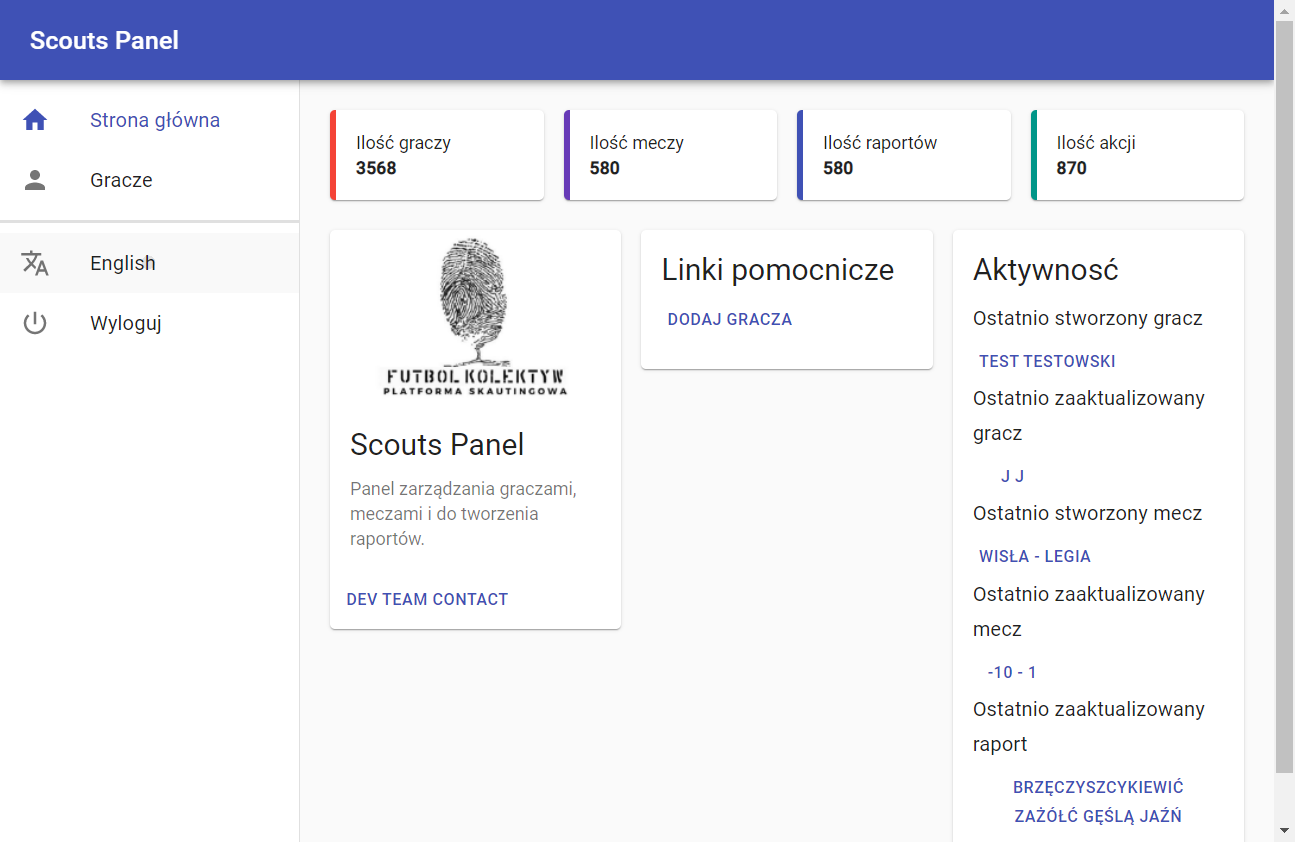
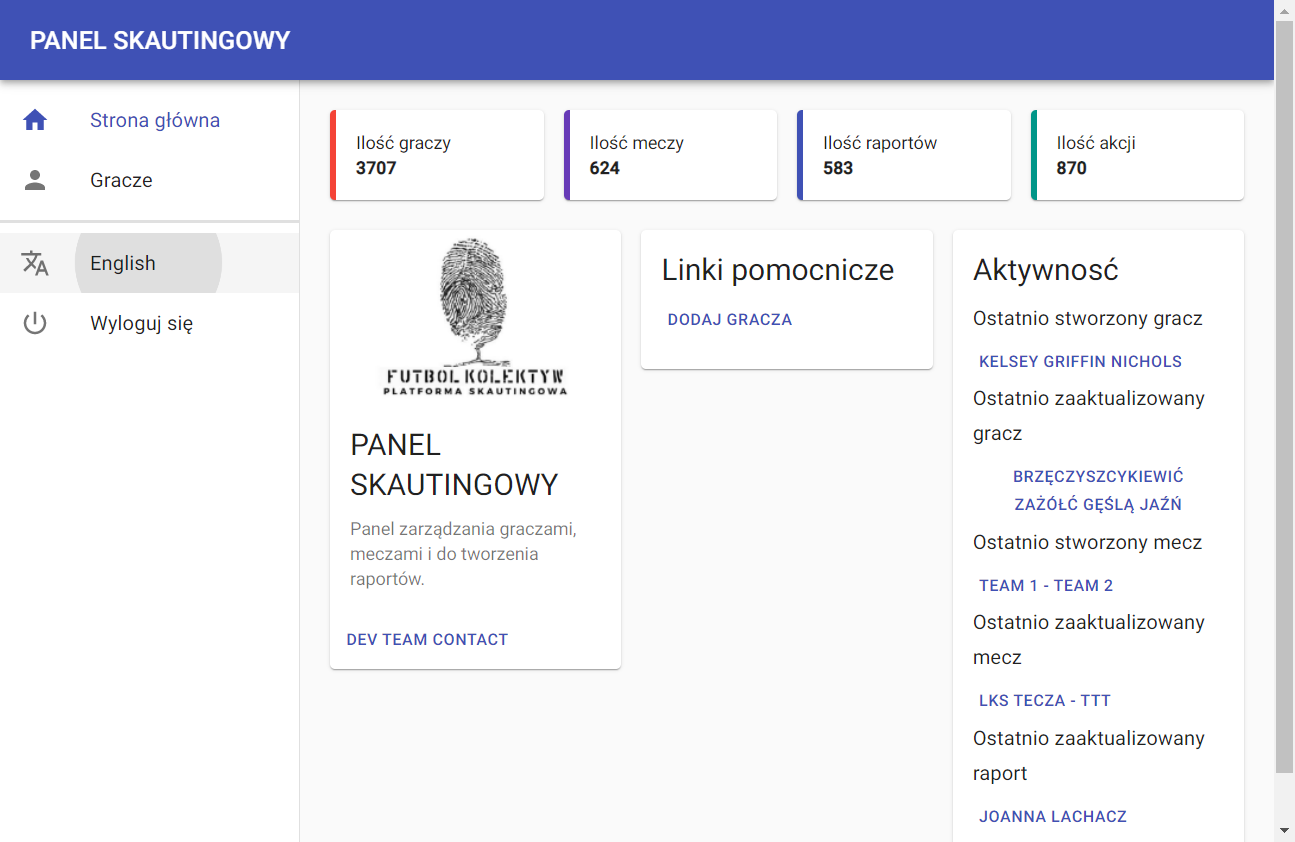
task 6

diff --git a/log.html b/log.html
@@ -1803,25 +1803,25 @@ function stopPropagation(event) {
 window.output = {};
 </script>
 <script type="text/javascript">
-window.output["suite"] = [1,2,3,4,[],[1,0,43289],[],[[5,0,0,[],[1,288,9253],[[0,6,0,0,0,0,0,0,[1,288,2305],[[0,7,8,0,9,10,0,0,[1,288,2297],[[288,2,11]]],[0,12,8,0,13,14,0,0,[1,2585,8],[[2593,2,15]]]]],[0,16,0,0,0,0,0,0,[1,2593,208],[[0,17,8,0,18,19,0,0,[1,2593,208],[[2593,2,20]]]]],[0,21,0,0,0,0,0,0,[1,2801,162],[[0,17,8,0,18,22,0,0,[1,2801,162],[[2801,2,23]]]]],[0,24,0,0,0,0,0,0,[1,2963,77],[[0,25,8,0,26,27,0,0,[1,2971,69],[[2971,2,28]]]]],[0,29,0,0,0,0,0,0,[1,3041,4347],[[0,30,8,0,31,32,0,0,[1,3042,4121],[]],[0,12,8,0,13,33,0,0,[1,7163,12],[[7175,2,34]]],[0,35,8,0,36,37,0,0,[1,7175,212],[[7387,2,38]]]]],[2,39,8,0,40,0,0,0,[1,7388,2153],[]]]],[41,0,0,[],[1,9541,8728],[[0,6,0,0,0,0,0,0,[1,9541,1990],[[0,7,8,0,9,10,0,0,[1,9541,1982],[[9541,2,11]]],[0,12,8,0,13,14,0,0,[1,11523,8],[[11531,2,15]]]]],[0,16,0,0,0,0,0,0,[1,11532,189],[[0,17,8,0,18,19,0,0,[1,11532,189],[[11533,2,20]]]]],[0,21,0,0,0,0,0,0,[1,11721,144],[[0,17,8,0,18,22,0,0,[1,11721,144],[[11721,2,23]]]]],[0,42,0,0,0,0,0,0,[1,11865,71],[[0,25,8,0,26,43,0,0,[1,11865,71],[[11865,2,28]]]]],[0,44,0,0,0,0,0,0,[1,11936,4061],[[0,30,8,0,31,45,0,0,[1,11937,3980],[]],[0,25,8,0,26,46,0,0,[1,15917,80],[[15917,2,47]]]]],[0,48,0,0,0,0,0,0,[1,15997,146],[[0,30,8,0,31,49,0,0,[1,15997,32],[]],[0,12,8,0,13,14,0,0,[1,16029,10],[[16039,2,15]]],[0,35,8,0,36,50,0,0,[1,16040,103],[[16143,2,51]]]]],[2,39,8,0,40,0,0,0,[1,16144,2125],[]]]],[52,0,0,[],[1,18269,7799],[[0,6,0,0,0,0,0,0,[1,18269,1976],[[0,7,8,0,9,10,0,0,[1,18269,1976],[[18277,2,11]]],[0,12,8,0,13,14,0,0,[1,20245,0],[[20245,2,15]]]]],[0,16,0,0,0,0,0,0,[1,20253,207],[[0,17,8,0,18,19,0,0,[1,20253,207],[[20253,2,20]]]]],[0,21,0,0,0,0,0,0,[1,20460,153],[[0,17,8,0,18,22,0,0,[1,20460,153],[[20460,2,23]]]]],[0,42,0,0,0,0,0,0,[1,20613,75],[[0,25,8,0,26,43,0,0,[1,20613,75],[[20613,2,28]]]]],[0,53,0,0,0,0,0,0,[1,20689,3026],[[0,30,8,0,31,54,0,0,[1,20689,2915],[]],[0,25,8,0,26,55,0,0,[1,23605,110],[[23606,2,56]]]]],[0,57,0,0,0,0,0,0,[1,23716,205],[[0,58,8,0,59,60,0,0,[1,23716,31],[[23718,2,61]]],[0,35,8,0,36,62,0,0,[1,23747,174],[[23920,2,63]]]]],[2,39,8,0,40,0,0,0,[1,23921,2147],[]]]],[64,0,0,[],[1,26068,9099],[[0,6,0,0,0,0,0,0,[1,26068,2048],[[0,7,8,0,9,10,0,0,[1,26068,2040],[[26076,2,11]]],[0,12,8,0,13,14,0,0,[1,28108,8],[[28116,2,15]]]]],[0,16,0,0,0,0,0,0,[1,28116,208],[[0,17,8,0,18,19,0,0,[1,28116,208],[[28116,2,20]]]]],[0,21,0,0,0,0,0,0,[1,28324,160],[[0,17,8,0,18,22,0,0,[1,28324,160],[[28332,2,23]]]]],[0,42,0,0,0,0,0,0,[1,28484,69],[[0,25,8,0,26,43,0,0,[1,28484,69],[[28484,2,28]]]]],[0,65,0,0,0,0,0,0,[1,28554,2952],[[0,30,8,0,31,54,0,0,[1,28554,2870],[]],[0,25,8,0,26,66,0,0,[1,31424,82],[[31425,2,67]]]]],[0,68,0,0,0,0,0,0,[1,31506,281],[[0,30,8,0,31,69,0,0,[1,31506,149],[]],[0,17,8,0,18,70,0,0,[1,31655,132],[[31656,2,71]]]]],[0,72,0,0,0,0,0,0,[1,31787,168],[[0,17,8,0,18,73,0,0,[1,31787,168],[[31787,2,74]]]]],[0,75,0,0,0,0,0,0,[1,31955,143],[[0,17,8,0,18,76,0,0,[1,31955,143],[[31963,2,77]]]]],[0,78,0,0,0,0,0,0,[1,32098,152],[[0,17,8,0,18,79,0,0,[1,32098,152],[[32098,2,80]]]]],[0,24,0,0,0,0,0,0,[1,32250,89],[[0,25,8,0,26,27,0,0,[1,32258,81],[[32258,2,28]]]]],[0,81,0,0,0,0,0,0,[1,32339,673],[[0,30,8,0,31,82,0,0,[1,32339,491],[]],[0,83,8,0,84,85,0,0,[1,32830,32],[[32862,2,86]]],[0,35,8,0,36,87,0,0,[1,32862,150],[[33012,2,88]]]]],[2,39,8,0,40,0,0,0,[1,33013,2154],[]]]],[89,0,0,[],[1,35167,8122],[[0,6,0,0,0,0,0,0,[1,35167,2356],[[0,7,8,0,9,10,0,0,[1,35167,2348],[[35167,2,11]]],[0,12,8,0,13,14,0,0,[1,37515,8],[[37523,2,15]]]]],[0,16,0,0,0,0,0,0,[1,37523,198],[[0,17,8,0,18,19,0,0,[1,37523,198],[[37523,2,20]]]]],[0,21,0,0,0,0,0,0,[1,37721,144],[[0,17,8,0,18,22,0,0,[1,37721,144],[[37721,2,23]]]]],[0,42,0,0,0,0,0,0,[1,37865,72],[[0,25,8,0,26,43,0,0,[1,37865,72],[[37865,2,28]]]]],[0,90,0,0,0,0,0,0,[1,37938,3218],[[0,30,8,0,31,32,0,0,[1,37938,3046],[]],[0,12,8,0,13,33,0,0,[1,40984,8],[[40992,2,34]]],[0,35,8,0,36,91,0,0,[1,40992,164],[[41156,2,92]]]]],[2,39,8,0,40,0,0,0,[1,41157,2132],[]]]]],[],[5,5,0,0]];
+window.output["suite"] = [1,2,3,4,[],[0,0,44775],[],[[5,0,0,[],[0,761,9347,6],[[0,7,0,0,0,0,0,0,[1,761,2857],[[0,8,9,0,10,11,0,0,[1,761,2849],[[761,2,12]]],[0,13,9,0,14,15,0,0,[1,3618,0],[[3618,2,16]]]]],[0,17,0,0,0,0,0,0,[1,3618,200],[[0,18,9,0,19,20,0,0,[1,3618,200],[[3626,2,21]]]]],[0,22,0,0,0,0,0,0,[1,3818,144],[[0,18,9,0,19,23,0,0,[1,3818,144],[[3818,2,24]]]]],[0,25,0,0,0,0,0,0,[1,3962,68],[[0,26,9,0,27,28,0,0,[1,3962,67],[[3962,2,29]]]]],[0,30,0,0,0,0,0,0,[0,4030,3903],[[0,31,9,0,32,33,0,0,[1,4030,3748],[]],[0,13,9,0,14,34,0,0,[0,7778,155],[[7921,2,35],[7921,5,6]]],[0,36,9,0,37,38,0,0,[3,7933,0],[]]]],[2,39,9,0,40,0,0,0,[1,7933,2175],[]]]],[41,0,0,[],[1,10108,7646],[[0,7,0,0,0,0,0,0,[1,10108,2094],[[0,8,9,0,10,11,0,0,[1,10116,2070],[[10116,2,12]]],[0,13,9,0,14,15,0,0,[1,12186,16],[[12202,2,16]]]]],[0,17,0,0,0,0,0,0,[1,12202,200],[[0,18,9,0,19,20,0,0,[1,12202,200],[[12202,2,21]]]]],[0,22,0,0,0,0,0,0,[1,12402,144],[[0,18,9,0,19,23,0,0,[1,12402,144],[[12402,2,24]]]]],[0,42,0,0,0,0,0,0,[1,12546,68],[[0,26,9,0,27,43,0,0,[1,12546,68],[[12546,2,29]]]]],[0,44,0,0,0,0,0,0,[1,12615,2836],[[0,31,9,0,32,45,0,0,[1,12615,2748],[]],[0,26,9,0,27,46,0,0,[1,15363,88],[[15363,2,47]]]]],[0,48,0,0,0,0,0,0,[1,15451,158],[[0,31,9,0,32,49,0,0,[1,15451,50],[]],[0,13,9,0,14,15,0,0,[1,15501,6],[[15507,2,16]]],[0,36,9,0,37,50,0,0,[1,15507,102],[[15609,2,51]]]]],[2,39,9,0,40,0,0,0,[1,15610,2144],[]]]],[52,0,0,[],[1,17754,8941],[[0,7,0,0,0,0,0,0,[1,17754,1952],[[0,8,9,0,10,11,0,0,[1,17754,1952],[[17754,2,12]]],[0,13,9,0,14,15,0,0,[1,19706,0],[[19706,2,16]]]]],[0,17,0,0,0,0,0,0,[1,19714,203],[[0,18,9,0,19,20,0,0,[1,19714,203],[[19714,2,21]]]]],[0,22,0,0,0,0,0,0,[1,19917,144],[[0,18,9,0,19,23,0,0,[1,19917,144],[[19917,2,24]]]]],[0,42,0,0,0,0,0,0,[1,20061,72],[[0,26,9,0,27,43,0,0,[1,20061,71],[[20061,2,29]]]]],[0,53,0,0,0,0,0,0,[1,20133,4104],[[0,31,9,0,32,54,0,0,[1,20134,3973],[]],[0,26,9,0,27,55,0,0,[1,24107,130],[[24107,2,56]]]]],[0,57,0,0,0,0,0,0,[1,24237,301],[[0,58,9,0,59,60,0,0,[1,24237,114],[[24237,2,61]]],[0,36,9,0,37,62,0,0,[1,24352,186],[[24538,2,63]]]]],[2,39,9,0,40,0,0,0,[1,24539,2156],[]]]],[64,0,0,[],[0,26695,10129,65],[[0,7,0,0,0,0,0,0,[1,26695,1774],[[0,8,9,0,10,11,0,0,[1,26695,1774],[[26695,2,12]]],[0,13,9,0,14,15,0,0,[1,28469,0],[[28469,2,16]]]]],[0,17,0,0,0,0,0,0,[1,28469,208],[[0,18,9,0,19,20,0,0,[1,28477,200],[[28477,2,21]]]]],[0,22,0,0,0,0,0,0,[1,28677,138],[[0,18,9,0,19,23,0,0,[1,28677,138],[[28677,2,24]]]]],[0,42,0,0,0,0,0,0,[1,28815,70],[[0,26,9,0,27,43,0,0,[1,28815,70],[[28815,2,29]]]]],[0,66,0,0,0,0,0,0,[1,28886,4271],[[0,31,9,0,32,54,0,0,[1,28886,4092],[]],[0,26,9,0,27,67,0,0,[1,32979,178],[[32979,2,68]]]]],[0,69,0,0,0,0,0,0,[1,33165,221],[[0,31,9,0,32,70,0,0,[1,33165,101],[]],[0,18,9,0,19,71,0,0,[1,33266,120],[[33266,2,72]]]]],[0,73,0,0,0,0,0,0,[1,33386,183],[[0,18,9,0,19,74,0,0,[1,33386,183],[[33386,2,75]]]]],[0,76,0,0,0,0,0,0,[1,33569,224],[[0,18,9,0,19,77,0,0,[1,33569,224],[[33569,2,78]]]]],[0,79,0,0,0,0,0,0,[1,33793,192],[[0,18,9,0,19,80,0,0,[1,33793,192],[[33793,2,81]]]]],[0,25,0,0,0,0,0,0,[1,33985,130],[[0,26,9,0,27,28,0,0,[1,33985,130],[[33985,2,29]]]]],[0,82,0,0,0,0,0,0,[0,34115,539],[[0,31,9,0,32,83,0,0,[1,34115,32],[]],[0,84,9,0,85,86,0,0,[0,34147,507],[[34653,2,87],[34653,5,65]]],[0,36,9,0,37,88,0,0,[3,34654,0],[]]]],[2,39,9,0,40,0,0,0,[1,34654,2170],[]]]],[89,0,0,[],[0,36824,7951,6],[[0,7,0,0,0,0,0,0,[1,36824,1938],[[0,8,9,0,10,11,0,0,[1,36824,1930],[[36824,2,12]]],[0,13,9,0,14,15,0,0,[1,38754,8],[[38762,2,16]]]]],[0,17,0,0,0,0,0,0,[1,38762,189],[[0,18,9,0,19,20,0,0,[1,38762,189],[[38762,2,21]]]]],[0,22,0,0,0,0,0,0,[1,38951,139],[[0,18,9,0,19,23,0,0,[1,38951,139],[[38951,2,24]]]]],[0,42,0,0,0,0,0,0,[1,39090,69],[[0,26,9,0,27,43,0,0,[1,39090,69],[[39090,2,29]]]]],[0,90,0,0,0,0,0,0,[0,39160,3487],[[0,31,9,0,32,33,0,0,[1,39161,3314],[]],[0,13,9,0,14,34,0,0,[0,42475,171],[[42645,2,91],[42645,5,6]]],[0,36,9,0,37,92,0,0,[3,42646,0],[]]]],[0,93,0,0,0,0,0,0,[3,42647,0],[]],[0,94,0,0,0,0,0,0,[3,42648,0],[]],[2,39,9,0,40,0,0,0,[1,42648,2127],[]]]]],[],[5,2,3,0]];
 </script>
 <script type="text/javascript">
 window.output["strings"] = [];
 </script>
 <script type="text/javascript">
-window.output["strings"] = window.output["strings"].concat(["*","*Test Login Rf","*C:\\Users\\patry\\OneDrive\\Dokumenty\\GitHub\\panelscout_robotframework\\test_login_rf.robot","*test_login_rf.robot","*<p>Suite description #automated tests for scout website\x3c/p>","*Login to the system","*Open login page","*Open Browser","*SeleniumLibrary","*<p>Opens a new browser instance to the optional <code>url\x3c/code>.\x3c/p>","*${LOGIN URL}, ${BROWSER}","*Opening browser 'Chrome' to base url '<a href=\"https://scouts-test.futbolkolektyw.pl/en\">https://scouts-test.futbolkolektyw.pl/en\x3c/a>'.","*Title Should Be","*<p>Verifies that the current page title equals <code>title\x3c/code>.\x3c/p>","*Scouts panel - sign in","*Page title is 'Scouts panel - sign in'.","*Type in mail","*Input Text","*<p>Types the given <code>text\x3c/code> into the text field identified by <code>locator\x3c/code>.\x3c/p>","*${EMAILINPUT}, user01@getnada.com","*Typing text 'user01@getnada.com' into text field 'xpath=//*[@id='login']'.","*Type in password","*${PASSWORDINPUT}, Test-1234","*Typing text 'Test-1234' into text field 'xpath=//*[@id='password']'.","*Click on the Submit button","*Click Element","*<p>Click the element identified by <code>locator\x3c/code>.\x3c/p>","*xpath=//*[@type='submit']","*Clicking element 'xpath=//*[@type='submit']'.","*Assert dashboard","*Wait Until Element Is Visible","*<p>Waits until the element <code>locator\x3c/code> is visible.\x3c/p>","*${PAGELOGO}","*Scouts panel","*Page title is 'Scouts panel'.","*Capture Page Screenshot","*<p>Takes a screenshot of the current page and embeds it into a log file.\x3c/p>","*screenshots/login/dashboard-start.png","*\x3c/td>\x3c/tr><tr><td colspan=\"3\"><a href=\"screenshots/login/dashboard-start.png\"><img src=\"screenshots/login/dashboard-start.png\" width=\"800px\">\x3c/a>","*Close Browser","*<p>Closes the current browser.\x3c/p>","*Log out from the system","*Click on the Sign in button","*${SIGNINBUTTON}","*Click on the Sign out button","*${SIGN OUT BUTTON}","*${SIGNOUTBUTTON}","*Clicking element 'xpath=//ul[2]//div[@role='button'][2]'.","*Assert login page","*${LOGINFORM}","*screenshots/login/login-page.png","*\x3c/td>\x3c/tr><tr><td colspan=\"3\"><a href=\"screenshots/login/login-page.png\"><img src=\"screenshots/login/login-page.png\" width=\"800px\">\x3c/a>","*Set language Polish","*Click on the Change language button","*${MAINPAGELINK}","*${CHANGELANGUAGEBUTTON}","*Clicking element 'xpath=//ul[2]//div[@role='button'][1]'.","*Assert language change","*Element Text Should Be","*<p>Verifies that element <code>locator\x3c/code> contains exact the text <code>expected\x3c/code>.\x3c/p>","*${CHANGELANGUAGEBUTTON}, English","*Verifying element 'xpath=//ul[2]//div[@role='button'][1]' contains exact text 'English'.","*screenshots/dashboard/language-set-pl.png","*\x3c/td>\x3c/tr><tr><td colspan=\"3\"><a href=\"screenshots/dashboard/language-set-pl.png\"><img src=\"screenshots/dashboard/language-set-pl.png\" width=\"800px\">\x3c/a>","*Add new player","*Click on the Add player button","*${ADD PLAYER BUTTON}","*Clicking element 'xpath=//a[contains(@href,'add')]'.","*Type in name","*${FORM TITLE}","*${PLAYER NAME FIELD}, Test","*Typing text 'Test' into text field 'xpath=//input[@name='name']'.","*Type in surname","*${PLAYER SURNAME FIELD}, Testowski","*Typing text 'Testowski' into text field 'xpath=//input[@name='surname']'.","*Type in age","*${PLAYER AGE FIELD}, 01/01/1990","*Typing text '01/01/1990' into text field 'xpath=//input[@name='age']'.","*Type in main position","*${PLAYER MAIN POSITION FIELD}, Forward","*Typing text 'Forward' into text field 'xpath=//input[@name='mainPosition']'.","*Assert edit player page","*${PROGRESS BAR TOASTER}","*Element Should Contain","*<p>Verifies that element <code>locator\x3c/code> contains text <code>expected\x3c/code>.\x3c/p>","*${FORM TITLE}, Edit player","*Element 'xpath=//form//*[contains(@class, 'h5')]' contains text 'Edit player'.","*screenshots/add-player/player-added.png","*\x3c/td>\x3c/tr><tr><td colspan=\"3\"><a href=\"screenshots/add-player/player-added.png\"><img src=\"screenshots/add-player/player-added.png\" width=\"800px\">\x3c/a>","*Display Players","*Assert dashboard2","*screenshots/login/dashboard-start2.png","*\x3c/td>\x3c/tr><tr><td colspan=\"3\"><a href=\"screenshots/login/dashboard-start2.png\"><img src=\"screenshots/login/dashboard-start2.png\" width=\"800px\">\x3c/a>","*Error in file 'C:\\Users\\patry\\OneDrive\\Dokumenty\\GitHub\\panelscout_robotframework\\test_login_rf.robot' on line 128: Creating keyword 'Click on the Players button' failed: Keyword with same name defined multiple times.","*Error in file 'C:\\Users\\patry\\OneDrive\\Dokumenty\\GitHub\\panelscout_robotframework\\test_login_rf.robot' on line 133: Creating keyword 'Assert players page' failed: Keyword with same name defined multiple times."]);
+window.output["strings"] = window.output["strings"].concat(["*","*Test Login Rf","*C:\\Users\\patry\\OneDrive\\Dokumenty\\GitHub\\panelscout_robotframework\\test_login_rf.robot","*test_login_rf.robot","*<p>Suite description #automated tests for scout website\x3c/p>","*Login to the system","*Title should have been 'Scouts panel' but was 'PANEL SKAUTINGOWY'.","*Open login page","*Open Browser","*SeleniumLibrary","*<p>Opens a new browser instance to the optional <code>url\x3c/code>.\x3c/p>","*${LOGIN URL}, ${BROWSER}","*Opening browser 'Chrome' to base url '<a href=\"https://scouts.futbolkolektyw.pl/en/\">https://scouts.futbolkolektyw.pl/en/\x3c/a>'.","*Title Should Be","*<p>Verifies that the current page title equals <code>title\x3c/code>.\x3c/p>","*Scouts panel - sign in","*Page title is 'Scouts panel - sign in'.","*Type in mail","*Input Text","*<p>Types the given <code>text\x3c/code> into the text field identified by <code>locator\x3c/code>.\x3c/p>","*${EMAILINPUT}, user01@getnada.com","*Typing text 'user01@getnada.com' into text field 'xpath=//*[@id='login']'.","*Type in password","*${PASSWORDINPUT}, Test-1234","*Typing text 'Test-1234' into text field 'xpath=//*[@id='password']'.","*Click on the Submit button","*Click Element","*<p>Click the element identified by <code>locator\x3c/code>.\x3c/p>","*xpath=//*[@type='submit']","*Clicking element 'xpath=//*[@type='submit']'.","*Assert dashboard","*Wait Until Element Is Visible","*<p>Waits until the element <code>locator\x3c/code> is visible.\x3c/p>","*${PAGELOGO}","*Scouts panel","*\x3c/td>\x3c/tr><tr><td colspan=\"3\"><a href=\"selenium-screenshot-1.png\"><img src=\"selenium-screenshot-1.png\" width=\"800px\">\x3c/a>","*Capture Page Screenshot","*<p>Takes a screenshot of the current page and embeds it into a log file.\x3c/p>","*screenshots/login/dashboard-start.png","*Close Browser","*<p>Closes the current browser.\x3c/p>","*Log out from the system","*Click on the Sign in button","*${SIGNINBUTTON}","*Click on the Sign out button","*${SIGN OUT BUTTON}","*${SIGNOUTBUTTON}","*Clicking element 'xpath=//ul[2]//div[@role='button'][2]'.","*Assert login page","*${LOGINFORM}","*screenshots/login/login-page.png","*\x3c/td>\x3c/tr><tr><td colspan=\"3\"><a href=\"screenshots/login/login-page.png\"><img src=\"screenshots/login/login-page.png\" width=\"800px\">\x3c/a>","*Set language Polish","*Click on the Change language button","*${MAINPAGELINK}","*${CHANGELANGUAGEBUTTON}","*Clicking element 'xpath=//ul[2]//div[@role='button'][1]'.","*Assert language change","*Element Text Should Be","*<p>Verifies that element <code>locator\x3c/code> contains exact the text <code>expected\x3c/code>.\x3c/p>","*${CHANGELANGUAGEBUTTON}, English","*Verifying element 'xpath=//ul[2]//div[@role='button'][1]' contains exact text 'English'.","*screenshots/dashboard/language-set-pl.png","*\x3c/td>\x3c/tr><tr><td colspan=\"3\"><a href=\"screenshots/dashboard/language-set-pl.png\"><img src=\"screenshots/dashboard/language-set-pl.png\" width=\"800px\">\x3c/a>","*Add new player","*Element 'xpath=//form//*[contains(@class, 'h5')]' should have contained text 'Edit player' but its text was 'Add player'.","*Click on the Add player button","*${ADD PLAYER BUTTON}","*Clicking element 'xpath=//a[contains(@href,'add')]'.","*Type in name","*${FORM TITLE}","*${PLAYER NAME FIELD}, Test","*Typing text 'Test' into text field 'xpath=//input[@name='name']'.","*Type in surname","*${PLAYER SURNAME FIELD}, Testowski","*Typing text 'Testowski' into text field 'xpath=//input[@name='surname']'.","*Type in age","*${PLAYER AGE FIELD}, 01/01/1990","*Typing text '01/01/1990' into text field 'xpath=//input[@name='age']'.","*Type in main position","*${PLAYER MAIN POSITION FIELD}, Forward","*Typing text 'Forward' into text field 'xpath=//input[@name='mainPosition']'.","*Assert edit player page","*${PROGRESS BAR TOASTER}","*Element Should Contain","*<p>Verifies that element <code>locator\x3c/code> contains text <code>expected\x3c/code>.\x3c/p>","*${FORM TITLE}, Edit player","*\x3c/td>\x3c/tr><tr><td colspan=\"3\"><a href=\"selenium-screenshot-2.png\"><img src=\"selenium-screenshot-2.png\" width=\"800px\">\x3c/a>","*screenshots/add-player/player-added.png","*Display Players","*Assert dashboard2","*\x3c/td>\x3c/tr><tr><td colspan=\"3\"><a href=\"selenium-screenshot-3.png\"><img src=\"selenium-screenshot-3.png\" width=\"800px\">\x3c/a>","*screenshots/login/dashboard-start2.png","*Click on the Players button","*Assert players page","*Error in file 'C:\\Users\\patry\\OneDrive\\Dokumenty\\GitHub\\panelscout_robotframework\\test_login_rf.robot' on line 128: Creating keyword 'Click on the Players button' failed: Keyword with same name defined multiple times.","*Error in file 'C:\\Users\\patry\\OneDrive\\Dokumenty\\GitHub\\panelscout_robotframework\\test_login_rf.robot' on line 133: Creating keyword 'Assert players page' failed: Keyword with same name defined multiple times."]);
 </script>
 <script type="text/javascript">
-window.output["stats"] = [[{"elapsed":"00:00:43","fail":0,"label":"All Tests","pass":5,"skip":0}],[],[{"elapsed":"00:00:43","fail":0,"id":"s1","label":"Test Login Rf","name":"Test Login Rf","pass":5,"skip":0}]];
+window.output["stats"] = [[{"elapsed":"00:00:44","fail":3,"label":"All Tests","pass":2,"skip":0}],[],[{"elapsed":"00:00:45","fail":3,"id":"s1","label":"Test Login Rf","name":"Test Login Rf","pass":2,"skip":0}]];
 </script>
 <script type="text/javascript">
-window.output["errors"] = [[0,4,93],[2,4,94]];
+window.output["errors"] = [[1,4,95],[1,4,96]];
 </script>
 <script type="text/javascript">
-window.output["baseMillis"] = 1683066939162;
+window.output["baseMillis"] = 1683458688665;
 </script>
 <script type="text/javascript">
-window.output["generated"] = 43331;
+window.output["generated"] = 44806;
 </script>
 <script type="text/javascript">
 window.output["expand_keywords"] = null;

diff --git a/report.html b/report.html
@@ -1629,22 +1629,22 @@ storage = function () {
 window.output = {};
 </script>
 <script type="text/javascript">
-window.output["suite"] = [1,2,3,4,[],[1,0,43289],[],[[5,0,0,[],[1,288,9253],[]],[6,0,0,[],[1,9541,8728],[]],[7,0,0,[],[1,18269,7799],[]],[8,0,0,[],[1,26068,9099],[]],[9,0,0,[],[1,35167,8122],[]]],[],[5,5,0,0]];
+window.output["suite"] = [1,2,3,4,[],[0,0,44775],[],[[5,0,0,[],[0,761,9347,6],[]],[7,0,0,[],[1,10108,7646],[]],[8,0,0,[],[1,17754,8941],[]],[9,0,0,[],[0,26695,10129,10],[]],[11,0,0,[],[0,36824,7951,6],[]]],[],[5,2,3,0]];
 </script>
 <script type="text/javascript">
 window.output["strings"] = [];
 </script>
 <script type="text/javascript">
-window.output["strings"] = window.output["strings"].concat(["*","*Test Login Rf","*C:\\Users\\patry\\OneDrive\\Dokumenty\\GitHub\\panelscout_robotframework\\test_login_rf.robot","*test_login_rf.robot","*<p>Suite description #automated tests for scout website\x3c/p>","*Login to the system","*Log out from the system","*Set language Polish","*Add new player","*Display Players"]);
+window.output["strings"] = window.output["strings"].concat(["*","*Test Login Rf","*C:\\Users\\patry\\OneDrive\\Dokumenty\\GitHub\\panelscout_robotframework\\test_login_rf.robot","*test_login_rf.robot","*<p>Suite description #automated tests for scout website\x3c/p>","*Login to the system","*Title should have been 'Scouts panel' but was 'PANEL SKAUTINGOWY'.","*Log out from the system","*Set language Polish","*Add new player","*Element 'xpath=//form//*[contains(@class, 'h5')]' should have contained text 'Edit player' but its text was 'Add player'.","*Display Players"]);
 </script>
 <script type="text/javascript">
-window.output["stats"] = [[{"elapsed":"00:00:43","fail":0,"label":"All Tests","pass":5,"skip":0}],[],[{"elapsed":"00:00:43","fail":0,"id":"s1","label":"Test Login Rf","name":"Test Login Rf","pass":5,"skip":0}]];
+window.output["stats"] = [[{"elapsed":"00:00:44","fail":3,"label":"All Tests","pass":2,"skip":0}],[],[{"elapsed":"00:00:45","fail":3,"id":"s1","label":"Test Login Rf","name":"Test Login Rf","pass":2,"skip":0}]];
 </script>
 <script type="text/javascript">
-window.output["baseMillis"] = 1683066939162;
+window.output["baseMillis"] = 1683458688665;
 </script>
 <script type="text/javascript">
-window.output["generated"] = 43331;
+window.output["generated"] = 44806;
 </script>
 <script type="text/javascript">
 window.output["expand_keywords"] = null;
